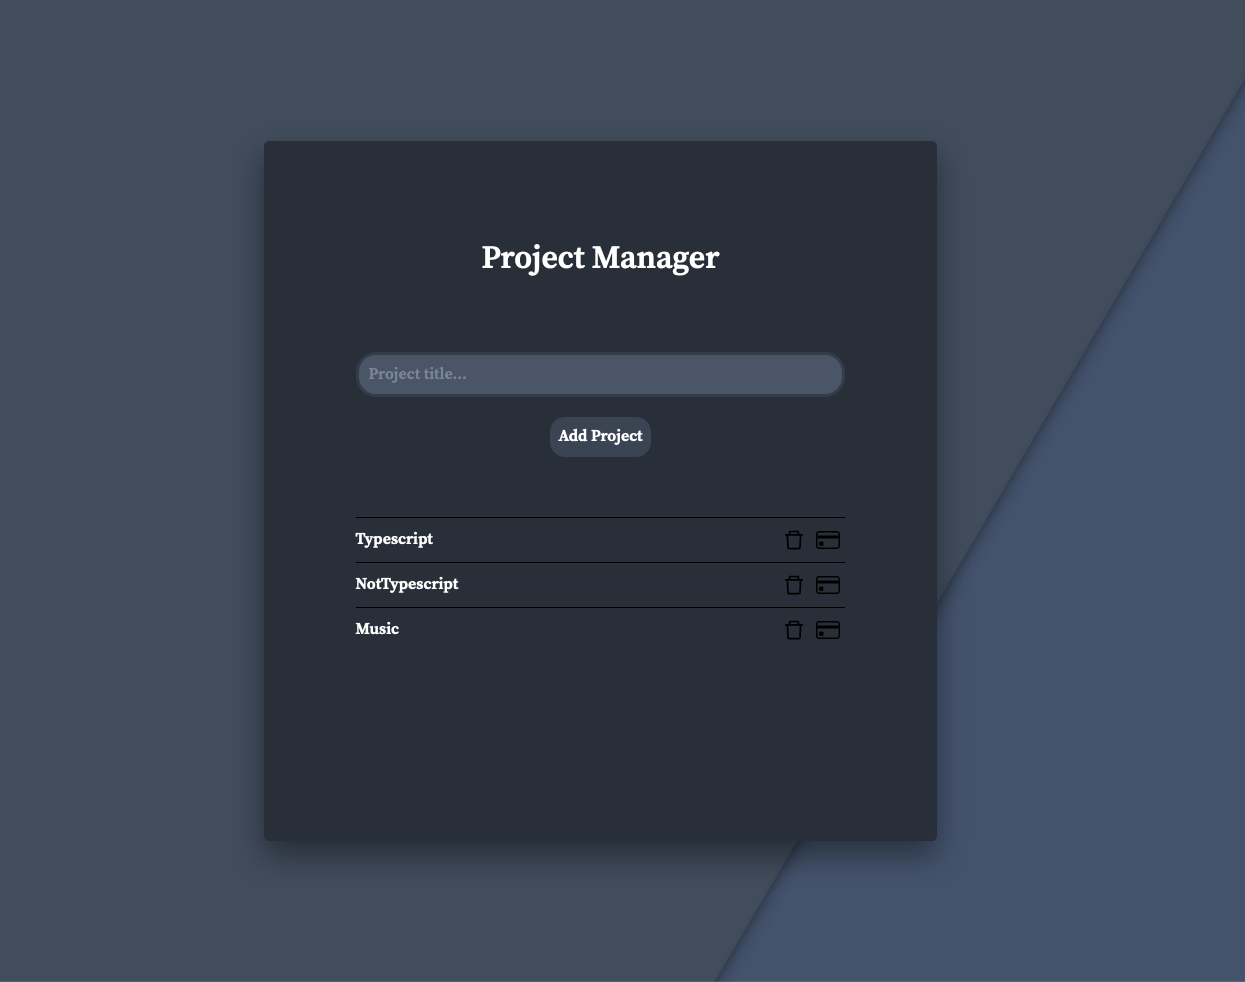
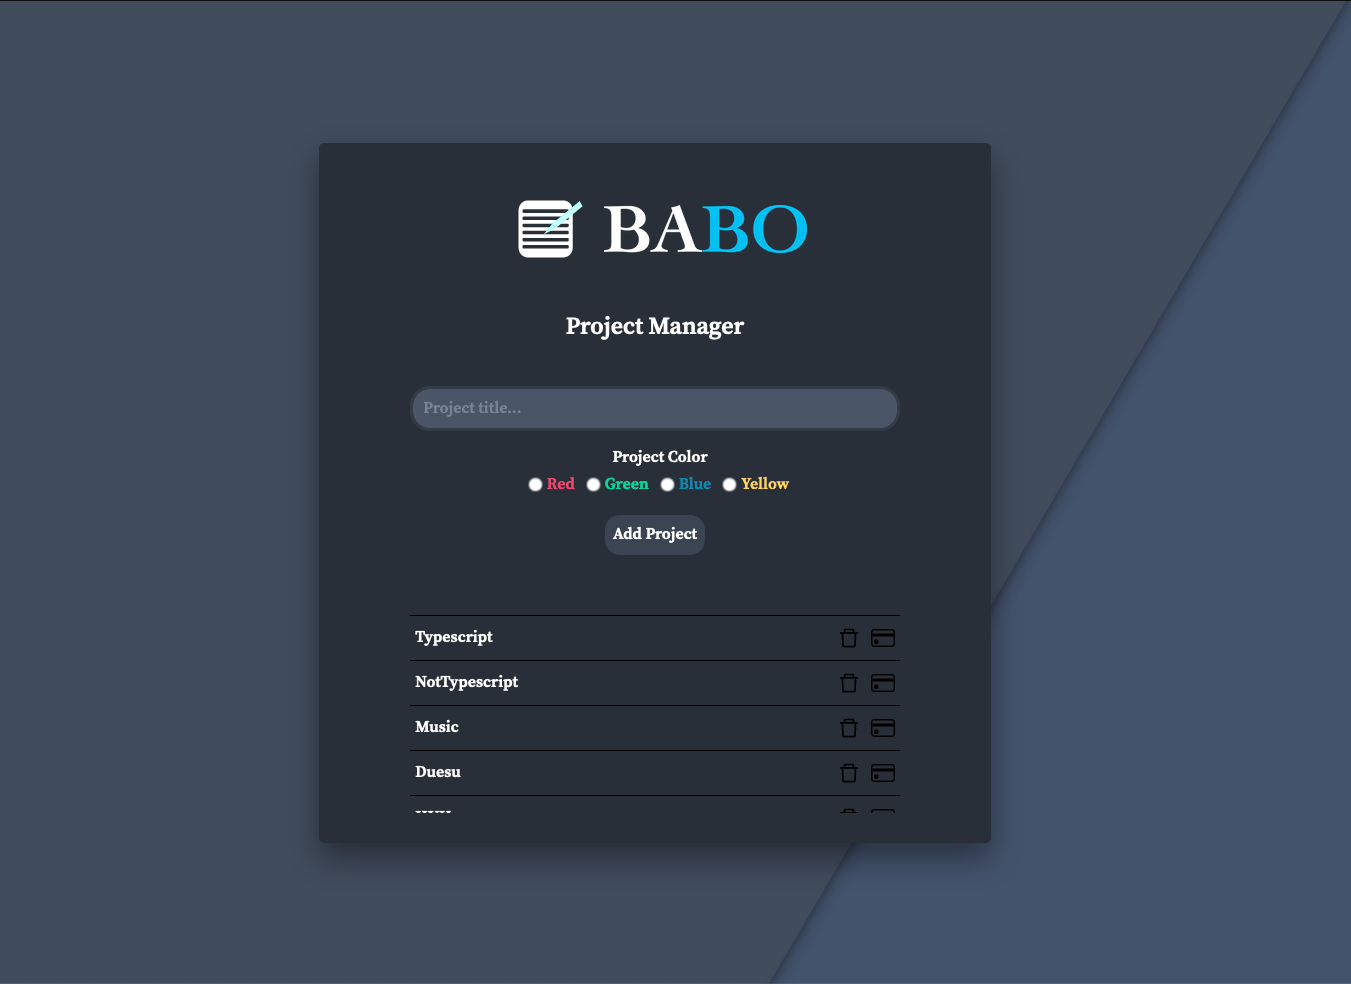
bug fix

diff --git a/src/components/projects/CreateProject.tsx b/src/components/projects/CreateProject.tsx
@@ -1,10 +1,12 @@
 import React from "react";
 import { Field, Form, Formik } from "formik";
-
+import Babo from "../../images/BaboHeader.svg";
 import { Consumer } from "../../context/context";
+import { useHistory } from "react-router-dom";
 import ProjectLinks from "./projectComponents/ProjectLinks";
 
 function CreateProject() {
+  let history = useHistory();
   return (
     <Consumer>
       {(Projects) => {
@@ -15,23 +17,24 @@ function CreateProject() {
           <div className="fadeIn createTasks">
             <div className="content">
               <section id="create-title">
-                
+                <img src={Babo} alt="Babo Header"/>
                 <h1>Project Manager</h1>
               </section>
               <section id="create-form">
                 <Formik
                   initialValues={{ title: "",color:"", posts: [] }}
                   onSubmit={(values) => {
-                    console.log(values);
-                    if(values.title === ""){
-                      alert("title must have a value");
-
+                    if(values.title.includes(" ")){
+                      alert("Title can not contain whitespace")
+                    }else if(values.title === ""){
+                      alert("Title must have a value");
                     }else if(values.color === ""){
                       alert("Color for project must be selected");
                     }else{
                       dispatch({ payload: values, type: "CREATE_PROJECT" });
+                      history.push(`/dashboard/projects/${values.title}`);
                     }
-   
+                  
                     
                   }}
                 >

diff --git a/src/components/posts/Post.tsx b/src/components/posts/Post.tsx
@@ -51,11 +51,11 @@ const Post: React.FC<postValues> = ({entirePost,
               <div
                 className={`post fadeIn  sm:w-3/4 xl:w-4/6   bg-gray-800 my-5 rounded-lg flex justify-between flex-col sm:flex-row shadow-xl `}
               >
-                <div className="image flex flex-col items-center m-2 ">
+                <div className="image flex flex-col sm:items-center items-start  p-2 m-2 ">
                   <div className="dot" style={{borderColor:`${color}`}}>
 
                   </div>
-                  <div className="sm:visible sm:m-1 vertical-divider h-full rounded-lg"></div>
+                  <div className="sm:visible hidden sm:m-1 vertical-divider h-full rounded-lg"></div>
                 </div>
                 <div className="flex items-center justify-between flex-col w-full p-2 bg-gray-800 rounded-lg">
                   {!activate ? (
@@ -83,6 +83,7 @@ const Post: React.FC<postValues> = ({entirePost,
                   ) : (
                     <UpdatePost
                       id={postValues.ids}
+                      color={postValues.color}
                       title={postValues.title}
                       date={postValues.date}
                       hours={postValues.hours}

diff --git a/src/components/pages/Home.tsx b/src/components/pages/Home.tsx
@@ -1,7 +1,8 @@
 import React, { useEffect, useState } from "react";
 import BB from "../../images/BB.png";
-import Example from "../../images/Example.png";
+import UpdatePost from "../../images/UpdatePost.png";
 import CreateProject from "../../images/createproject.png";
+import MainDashboard from "../../images/mainDashboard.png"
 import { Link } from "react-router-dom";
 
 function Home() {
@@ -92,7 +93,7 @@ function Home() {
           </p>
           <section id="example" className="flex">
             <div id="left-pane" className="">
-              <img src={Example} alt="example" width="648"></img>
+              <img src={MainDashboard} alt="example" width="648"></img>
             </div>
             <div id="right-pane" className="pane">
               <h1> CREATE AND ADD NEW TASKS</h1>
@@ -105,7 +106,7 @@ function Home() {
               <p> Edit and change posts!</p>
             </div>
             <div id="right-pane" className="pane">
-              <img src={Example} alt="example" width="648"></img>
+              <img src={UpdatePost} alt="example" width="648"></img>
             </div>
           </section>
           <section id="example" className="flex">

diff --git a/src/components/posts/CompletedPosts.tsx b/src/components/posts/CompletedPosts.tsx
@@ -6,18 +6,19 @@ function CompletedPosts() {
     <Consumer>
       {(Projects) => {
         let { projectState } = Projects;
-        console.log(projectState);
+
         if (!(projectState.completed_posts.length === 0)) {
           return (
             <div className="completed_posts">
               {projectState.completed_posts.map((x: any) => (
-                <div key={x.title} className="postCard " style={{backgroundColor:`${x.color}`}}>
-       
-                  <div className="container" >
+                <div key={x.title} className="postCard bg-gray-900">
+                  <div className="flex flex-col mr-3">
+                    <div className="dot" style={{borderColor:`${x.color}`}}></div>
+                  </div>
+                  <div className="container">
                     <h1>Title: {x.title}</h1>
                     <h1>Date: {x.date}</h1>
                     <h1>Description: {x.description}</h1>
-
                   </div>
                 </div>
               ))}
@@ -32,3 +33,5 @@ function CompletedPosts() {
 }
 
 export default CompletedPosts;
+
+//style={{backgroundColor:`${x.color}`}}

diff --git a/src/assets/App.css b/src/assets/App.css
@@ -113,11 +113,26 @@ body,
           box-shadow: 0 15px 30px rgba(0, 0, 0, 0.4);
 }
 
+.createTasks .content #create-title {
+  display: -webkit-box;
+  display: -ms-flexbox;
+  display: flex;
+  -webkit-box-orient: vertical;
+  -webkit-box-direction: normal;
+      -ms-flex-direction: column;
+          flex-direction: column;
+}
+
+.createTasks .content #create-title img {
+  margin: 1em 0;
+  height: 80px;
+}
+
 .createTasks .content #create-title h1 {
-  margin: 2em 0 2em 0;
+  margin: 1em 0 1.5em 0;
   color: white;
   text-align: center;
-  font-size: 2em;
+  font-size: 1.5em;
 }
 
 .createTasks .content #create-form {
@@ -899,13 +914,14 @@ body,
   border-radius: 10px;
   padding: 10px;
   height: 100px;
-  width: 50%;
+  width: 70%;
   margin: 10px 0 10px;
   -webkit-box-shadow: 3px 3px 10px rgba(0, 0, 0, 0.479);
           box-shadow: 3px 3px 10px rgba(0, 0, 0, 0.479);
 }
 
 .completed_posts .postCard .vertical-divider {
+  height: 100%;
   margin: 0 0 0 5px;
   border: 1px solid rgba(255, 255, 255, 0.493);
 }

diff --git a/src/components/posts/UpdatePost.tsx b/src/components/posts/UpdatePost.tsx
@@ -5,6 +5,7 @@ import { useParams } from "react-router-dom";
 
 interface postKeyValues {
   id: number;
+  color:string;
   title: string;
   date: string;
   hours: number;
@@ -13,6 +14,7 @@ interface postKeyValues {
 
 const UpdatePost: React.FC<postKeyValues> = ({
   id,
+  color,
   title,
   date,
   hours,
@@ -20,6 +22,7 @@ const UpdatePost: React.FC<postKeyValues> = ({
 }) => {
   const initialValues: postKeyValues = {
     id: id,
+    color:color,
     title: title,
     date: date,
     hours: hours,
@@ -38,12 +41,11 @@ const UpdatePost: React.FC<postKeyValues> = ({
               onSubmit={(values) => {
                 dispatch({
                   title: a.id,
+                  color:color,
                   id:id,
                   type: "UPDATE_POST",
                   payload: values,
                 });
-
-              
               }}
             >
               <Form>

diff --git a/src/context/context.tsx b/src/context/context.tsx
@@ -18,7 +18,7 @@ export const projectsReducer = (state: any, action: any) => {
       alert("Project already exist, please create a new Title");
       return {...state};
     }
-
+    
       return {
         ...state,
         allProjects: [...state.allProjects, action.payload],
@@ -34,7 +34,7 @@ export const projectsReducer = (state: any, action: any) => {
       });
 
       return {
-        ...state,
+        ...state
       };
     case "CREATE_POST":
       state.allProjects.map((x: any) => {
@@ -46,12 +46,14 @@ export const projectsReducer = (state: any, action: any) => {
             return {...state};
           }else{
             news.posts = x.posts.push(action.payload);
+            
           }
           return news;
         } else {
           return x;
         }
       });
+      console.log(state)
 
       return {
         ...state

diff --git a/src/assets/App.scss b/src/assets/App.scss
@@ -83,11 +83,17 @@ body,
     border-radius: 5px;
     box-shadow: 0 15px 30px rgba(0, 0, 0, 0.4);
     #create-title {
+      display: flex;
+      flex-direction: column;
+      img{
+        margin: 1em 0;
+        height: 80px;
+      }
       h1 {
-        margin: 2em 0 2em 0;
+        margin: 1em 0 1.5em 0;
         color: rgb(255, 255, 255);
         text-align: center;
-        font-size: 2em;
+        font-size: 1.5em;
       }
     }
     #create-form {
@@ -663,11 +669,13 @@ body,
     border-radius: 10px;
     padding: 10px;
     height: 100px;
-    width: 50%;
+    width: 70%;
     margin: 10px 0 10px;
     box-shadow: 3px 3px 10px rgba(0, 0, 0, 0.479);
 
+
     .vertical-divider {
+      height: 100%;
       margin: 0 0 0 5px;
       border: 1px solid rgba(255, 255, 255, 0.493);
     }

diff --git a/src/components/pages/Dashboard.tsx b/src/components/pages/Dashboard.tsx
@@ -16,11 +16,11 @@ function Dashboard() {
         return (
           <div className="back flex justify-center h-full  bg-gray-700">
             <Header />
-            <div className="theTop w-full flex lg:flex-row flex-col items-center">
+            <div className="theTop w-full flex lg:flex-row flex-col items-center overflow-x-hidden">
               <Tabs />
               <div className="divs w-1/6"></div>
 
-              <div className="feed h-full sm:w-5/6 w-3/4 overflow-y-scroll">
+              <div className="feed h-full sm:w-5/6 w-3/4 overflow-y-scroll ">
                 <Switch>
                   <Route path="/dashboard/projects/:id">
                     <Project state={projectState} dispatch={dispatch} />

diff --git a/src/components/posts/Createpost.tsx b/src/components/posts/Createpost.tsx
@@ -39,7 +39,7 @@ function Createpost() {
         let post = projects.filter((x:any) => id === x.title);
 
         return (
-          <div className="lg:fixed sm:w-3/4 md:w-1/4">
+          <div className="lg:fixed sm:w-3/4 md:w-2/4 lg:w-1/4">
             <div className="post bg-gray-800 my-5 rounded-lg flex justify-between flex-col  shadow-xl ">
               <div className="p-3 flex items-center w-full">
                 <div className="flex flex-1 justify-start">

diff --git a/src/components/layouts/Tabs.tsx b/src/components/layouts/Tabs.tsx
@@ -46,7 +46,7 @@ function Tabs() {
                     <Link to="/createproject">
                       <img className="h-3" src={Plus} alt="inbox" />{" "}
                       <span className="opacity-50 text-sm">
-                        Create Projects
+                        Project Manager
                       </span>
                     </Link>
                   </div>

diff --git a/src/components/projects/Project.tsx b/src/components/projects/Project.tsx
@@ -20,7 +20,7 @@ const Project: React.FC<any> = ({ state }) => {
           <div className="lg:w-2/3  w-full flex flex-col items-center ">
             <Posts />
           </div>
-          <div className=" lg:w-1/3 flex  justify-center ">
+          <div className=" lg:w-1/3 flex justify-center ">
             <Createpost />
           </div>
         </div>
